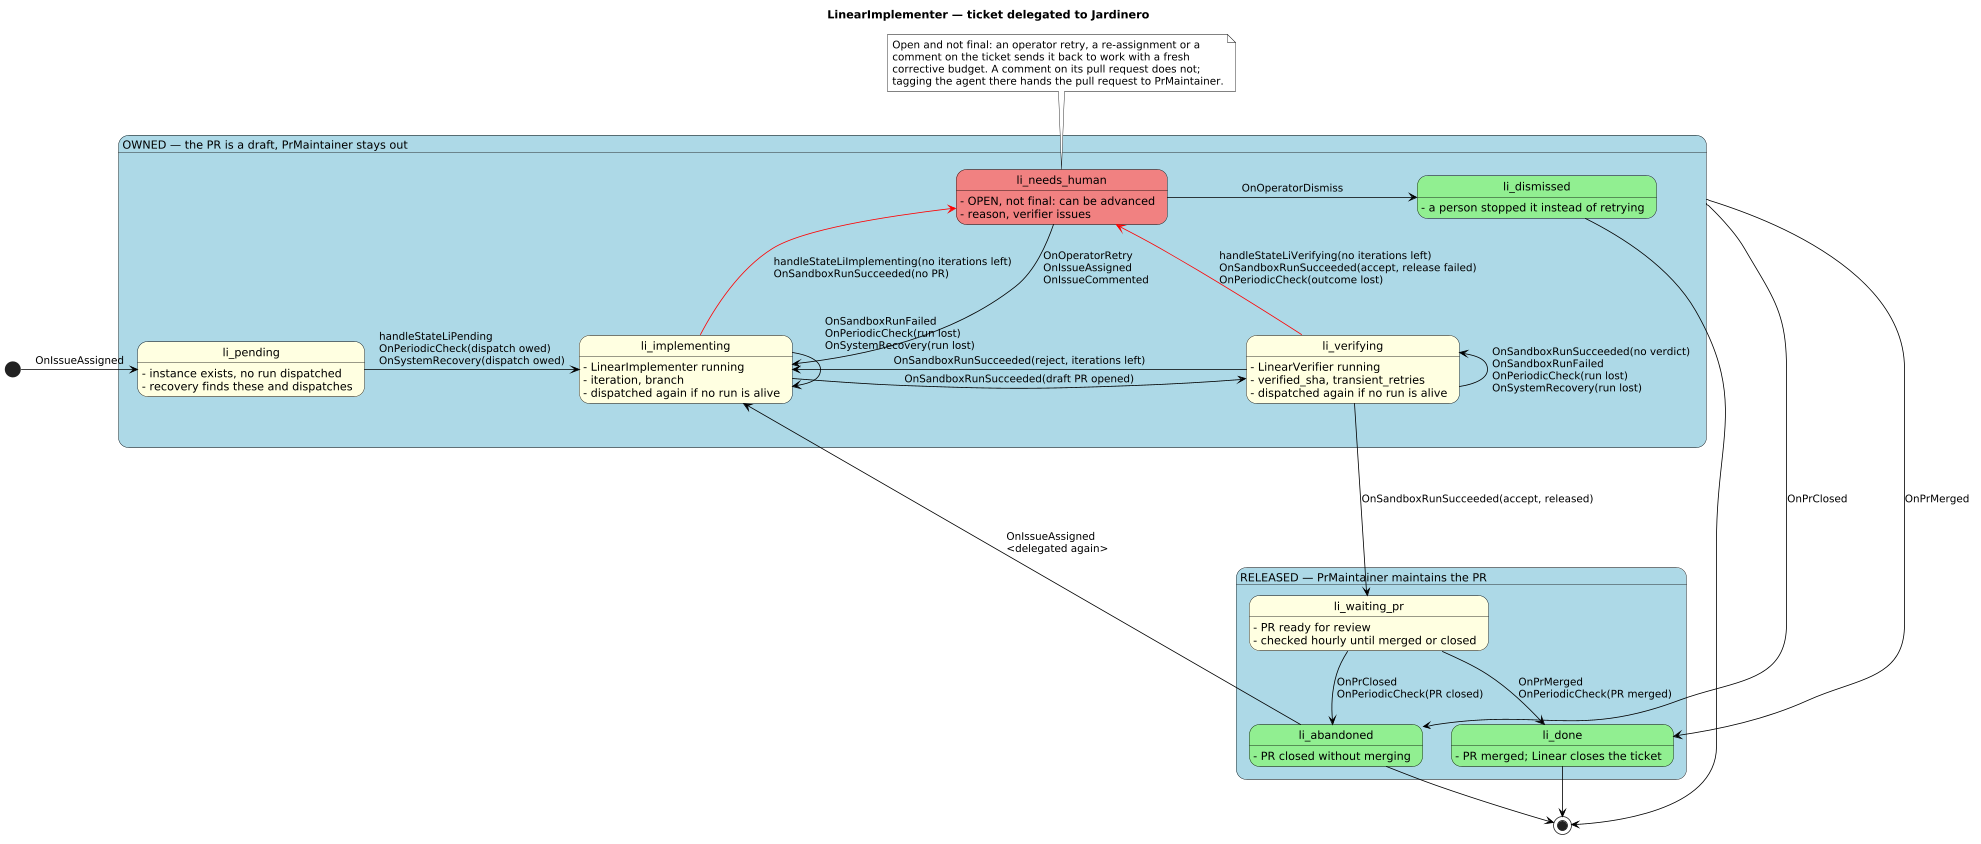
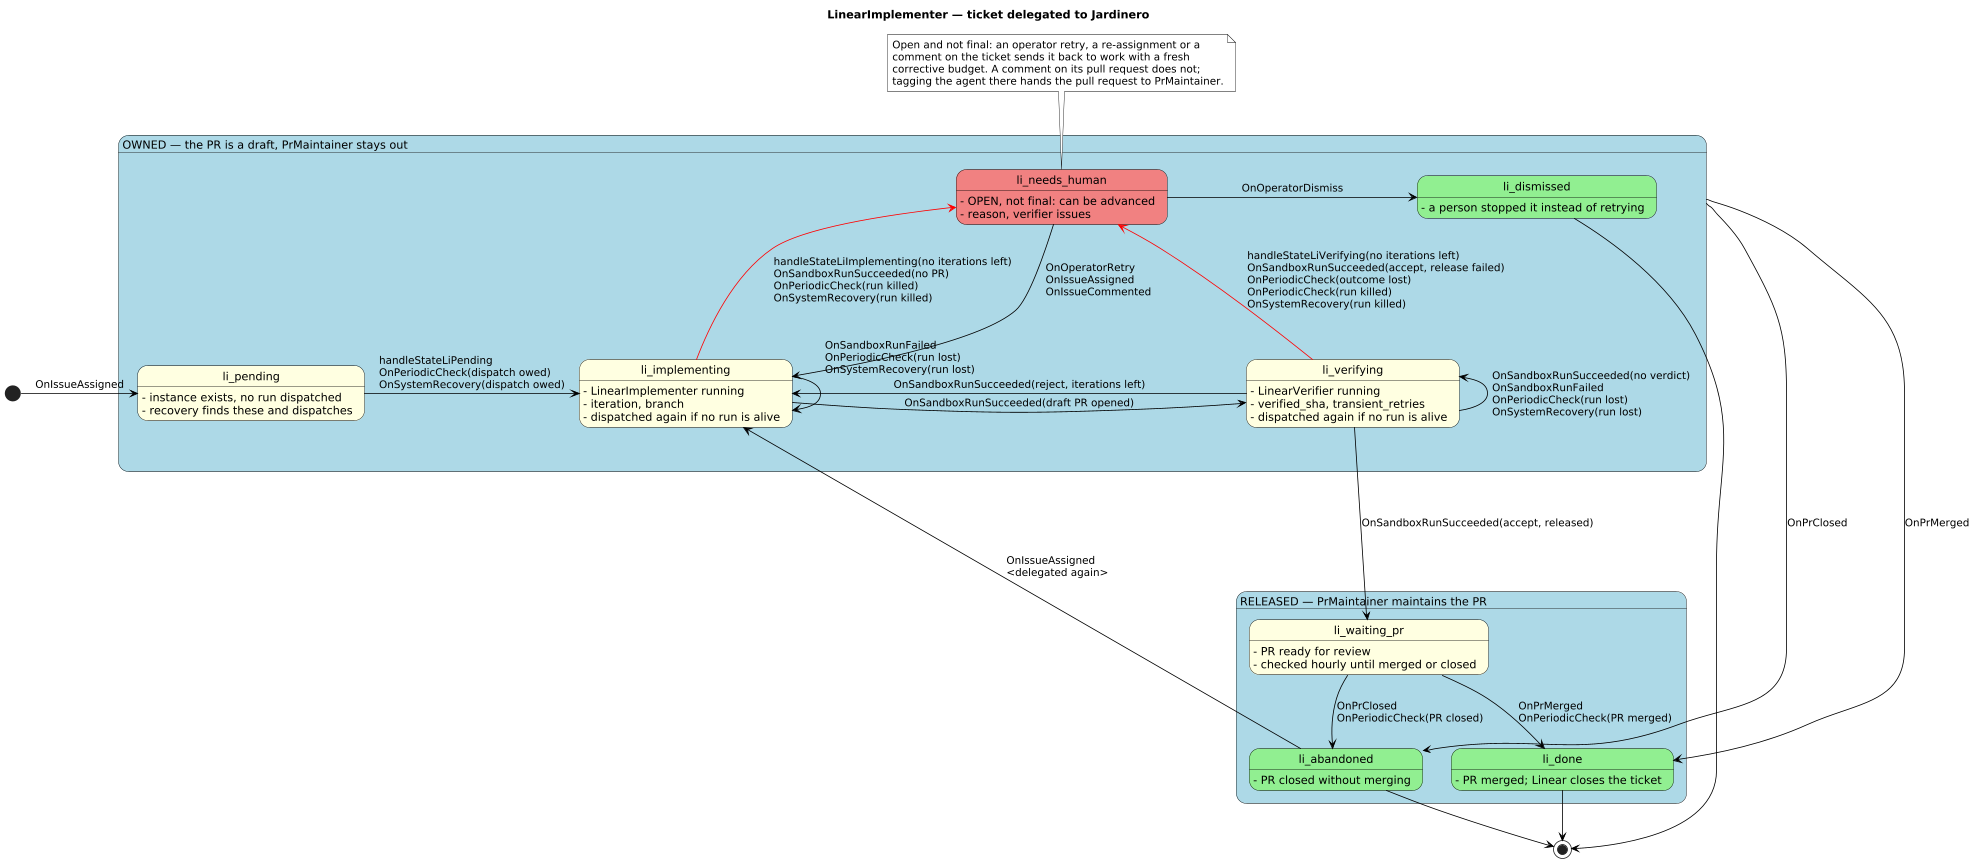
orchestrator: stop the workflow when an operator kills its sandbox run (JAR-84) (#98)
orchestrator: stop the workflow when an operator kills its sandbox run

Claude-Session: https://claude.ai/code/session_0176UDqDhGJbi127yHaBVPkU

diff --git a/src/orchestrator/state-machines/pr-maintainer/events.test.ts b/src/orchestrator/state-machines/pr-maintainer/events.test.ts
@@ -1033,6 +1033,12 @@ describe('onPeriodicCheck', () => {
       want: { state: 'prm_working', checked: true },
     },
     {
+      name: 'When the run died with the process then should dispatch again',
+      from: 'prm_working',
+      attachLostRun: true,
+      want: { state: 'prm_working', startedRuns: 1, attemptCount: 1, checked: true },
+    },
+    {
       name: 'When the run finished without telling us then should move it to waiting',
       from: 'prm_working',
       attachFinishedRun: 'succeeded',
@@ -1046,9 +1052,19 @@ describe('onPeriodicCheck', () => {
       want: { state: 'prm_working', checked: true },
     },
     {
-      name: 'When the run died with the process then should dispatch again',
+      name: 'When the run was killed then should ask a person instead of dispatching again',
       from: 'prm_working',
-      attachLostRun: true,
+      attachFinishedRun: 'aborted',
+      want: {
+        state: 'prm_attempts_exhausted',
+        needsHumanReason: 'run_killed',
+        checked: true,
+      },
+    },
+    {
+      name: 'When the run failed without telling us then should dispatch again',
+      from: 'prm_working',
+      attachFinishedRun: 'failed',
       want: { state: 'prm_working', startedRuns: 1, attemptCount: 1, checked: true },
     },
     {
@@ -1536,7 +1552,7 @@ interface PeriodicCase {
   unknownInstance?: boolean;
   attachLiveRun?: boolean;
   attachLostRun?: boolean;
-  attachFinishedRun?: 'succeeded' | 'failed';
+  attachFinishedRun?: 'succeeded' | 'failed' | 'aborted';
   keepInPool?: boolean;
   snapshot?: Partial<FakeGitHub['snapshot']>;
   arrange?: (instance: PrMaintainer) => void;

diff --git a/src/orchestrator/state-machines/linear-implementer/events.ts b/src/orchestrator/state-machines/linear-implementer/events.ts
@@ -536,8 +536,14 @@ function processSandboxRunWhileWorking(
       instance.needsHumanReason = 'outcome_lost';
       return setState(engine, instance, 'li_needs_human');
 
-    // Failed or aborted, and nobody reported it, which is what a restart mid-run leaves
-    // behind. It costs an iteration like any lost run and the handler decides from there.
+    case 'aborted':
+      // Someone stopped the run on purpose, so the ticket is not taken again.
+      instance.sandboxRunId = null;
+      instance.needsHumanReason = 'run_killed';
+      return setState(engine, instance, 'li_needs_human');
+
+    // Failed, and nobody reported it, which is what a restart mid-run leaves behind. It
+    // costs an iteration like any lost run and the handler decides from there.
     default:
       instance.sandboxRunId = null;
       instance.iterationNumber += 1;

diff --git a/src/orchestrator/state-machines/pr-maintainer/events.ts b/src/orchestrator/state-machines/pr-maintainer/events.ts
@@ -664,6 +664,12 @@ function processSandboxRunWhileWorking(
       instance.sandboxRunId = null;
       return setStateAndRun(engine, instance, 'prm_waiting');
 
+    case 'aborted':
+      // Someone stopped the run on purpose, so the pull request is not taken again.
+      instance.sandboxRunId = null;
+      instance.needsHumanReason = 'run_killed';
+      return setState(engine, instance, 'prm_attempts_exhausted');
+
     default:
       // Finished badly or the row is gone; either way nothing is in flight.
       instance.sandboxRunId = null;

diff --git a/src/orchestrator/state-machines/fix-implementer/events.ts b/src/orchestrator/state-machines/fix-implementer/events.ts
@@ -469,6 +469,12 @@ function processSandboxRunWhileWorking(
       instance.needsHumanReason = 'outcome_lost';
       return setState(engine, instance, 'fi_needs_human');
 
+    case 'aborted':
+      // Someone stopped the run on purpose, so the finding is not taken again.
+      instance.sandboxRunId = null;
+      instance.needsHumanReason = 'run_killed';
+      return setState(engine, instance, 'fi_needs_human');
+
     default:
       instance.sandboxRunId = null;
       instance.needsHumanReason = 'run_failed';

diff --git a/src/orchestrator/state-machines/fix-implementer/events.test.ts b/src/orchestrator/state-machines/fix-implementer/events.test.ts
@@ -740,6 +740,12 @@ describe('onPeriodicCheck', () => {
       want: { state: 'fi_implementing' },
     },
     {
+      name: 'When the run was killed then should ask a person instead of dispatching again',
+      from: 'fi_implementing',
+      attachFinishedRun: 'aborted',
+      want: { state: 'fi_needs_human', needsHumanReason: 'run_killed' },
+    },
+    {
       name: 'When the run failed without telling us then should ask a person',
       from: 'fi_implementing',
       attachFinishedRun: 'failed',

diff --git a/src/orchestrator/state-machines/linear-implementer/events.test.ts b/src/orchestrator/state-machines/linear-implementer/events.test.ts
@@ -759,6 +759,12 @@ describe('onPeriodicCheck', () => {
       want: { state: 'li_verifying' },
     },
     {
+      name: 'When the run was killed then should ask a person instead of dispatching again',
+      from: 'li_implementing',
+      attachFinishedRun: 'aborted',
+      want: { state: 'li_needs_human', needsHumanReason: 'run_killed' },
+    },
+    {
       name: 'When the run failed without telling us then should dispatch again',
       from: 'li_implementing',
       attachFinishedRun: 'failed',

diff --git a/docs/dashboard.md b/docs/dashboard.md
@@ -42,7 +42,7 @@ Reads:
 
 Writes, all of them audited as `operator.dashboard_write_requested` with the proxy identity when it is present:
 
-- `POST /dashboard/api/sandbox-runs/{id}/kill` — abort a sandbox that is executing; `409` when it is not.
+- `POST /dashboard/api/sandbox-runs/{id}/kill` — abort a sandbox that is executing and stop its workflow. `409` when it is not executing.
 - `POST /dashboard/api/workflow-instances/{workflowType}/{id}/retry` — hand an instance waiting for a person back to its workflow.
 - `POST /dashboard/api/agents/instructions` and `.../instructions/delete` — save or drop guidance. Both need `confirmed: true` and, on an entry that already exists, its current `revision` (`409` on mismatch).
 

diff --git a/.changeset/kill-stops-the-workflow.md b/.changeset/kill-stops-the-workflow.md
@@ -1,0 +1,5 @@
+---
+"jardinero": patch
+---
+
+orchestrator: stop the workflow when an operator kills its sandbox run instead of dispatching another one
